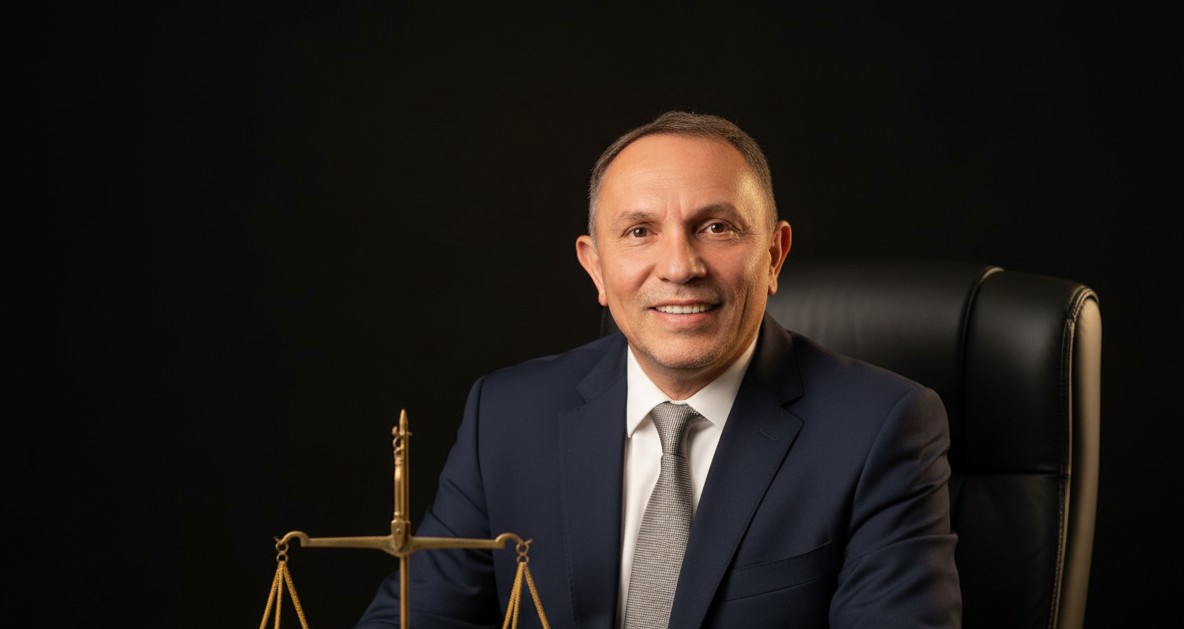
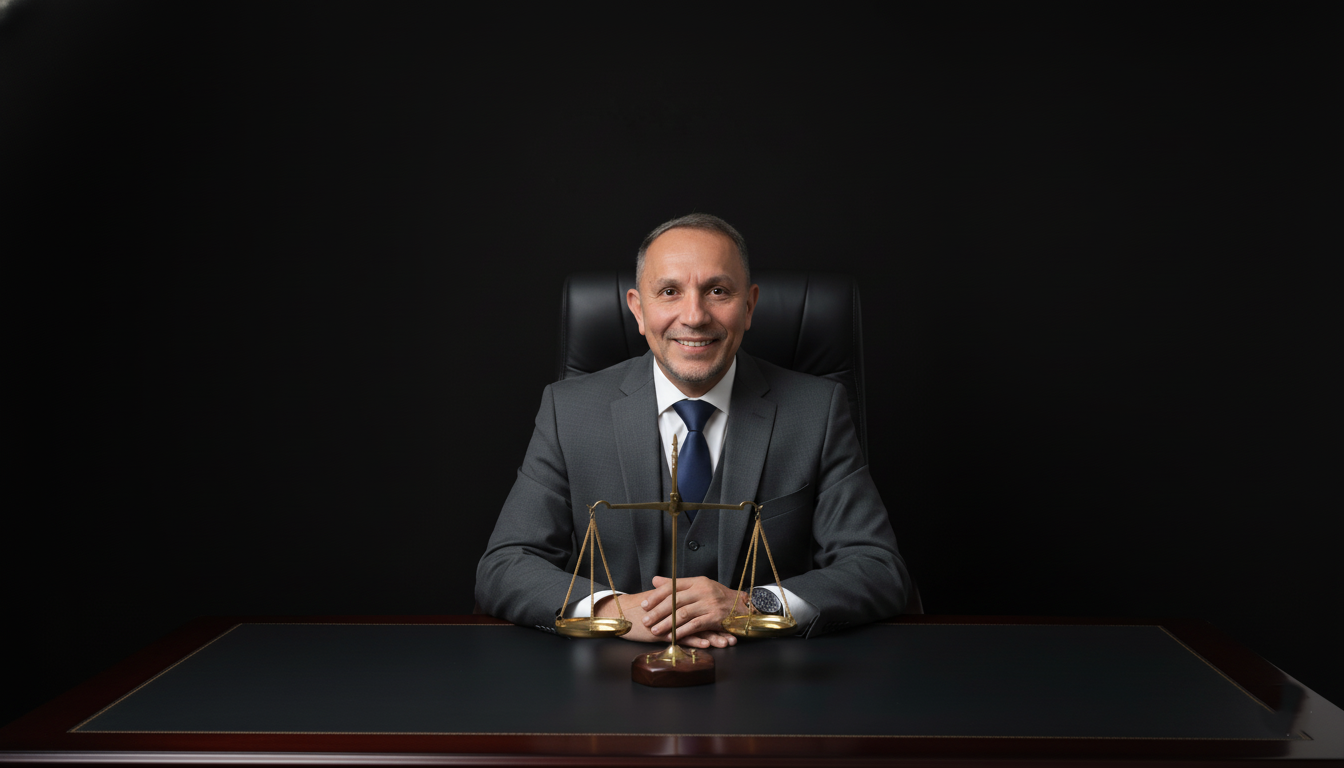
final1

Changed region(s): [[0.0, 0.1812, 1.0, 1.0], [0.0938, 0.876, 0.125, 0.9062], [0.0, 0.0, 0.0312, 0.0302]]

diff --git a/src/app/layout.tsx b/src/app/layout.tsx
@@ -74,8 +74,27 @@ export default function RootLayout({
   children: React.ReactNode;
 }>) {
   return (
-    <html lang="es">
+    <html lang="es" className="dark-mode-transition">
       <head>
+        {/* Favicons generados */}
+        <link rel="apple-touch-icon" sizes="57x57" href="/apple-icon-57x57.png" />
+        <link rel="apple-touch-icon" sizes="60x60" href="/apple-icon-60x60.png" />
+        <link rel="apple-touch-icon" sizes="72x72" href="/apple-icon-72x72.png" />
+        <link rel="apple-touch-icon" sizes="76x76" href="/apple-icon-76x76.png" />
+        <link rel="apple-touch-icon" sizes="114x114" href="/apple-icon-114x114.png" />
+        <link rel="apple-touch-icon" sizes="120x120" href="/apple-icon-120x120.png" />
+        <link rel="apple-touch-icon" sizes="144x144" href="/apple-icon-144x144.png" />
+        <link rel="apple-touch-icon" sizes="152x152" href="/apple-icon-152x152.png" />
+        <link rel="apple-touch-icon" sizes="180x180" href="/apple-icon-180x180.png" />
+        <link rel="icon" type="image/png" sizes="192x192" href="/android-icon-192x192.png" />
+        <link rel="icon" type="image/png" sizes="32x32" href="/favicon-32x32.png" />
+        <link rel="icon" type="image/png" sizes="96x96" href="/favicon-96x96.png" />
+        <link rel="icon" type="image/png" sizes="16x16" href="/favicon-16x16.png" />
+        <link rel="manifest" href="/manifest.json" />
+        <meta name="msapplication-TileColor" content="#ffffff" />
+        <meta name="msapplication-TileImage" content="/ms-icon-144x144.png" />
+        <meta name="theme-color" content="#ffffff" />
+
         <script
           type="application/ld+json"
           dangerouslySetInnerHTML={{
@@ -104,7 +123,7 @@ export default function RootLayout({
         />
       </head>
       <body
-        className={`${geistSans.variable} ${geistMono.variable} antialiased`}
+        className={`${geistSans.variable} ${geistMono.variable} antialiased dark-mode-transition`}
       >
         {children}
         <GoogleAnalytics />
@@ -113,4 +132,3 @@ export default function RootLayout({
     </html>
   );
 }
-

diff --git a/src/components/Header.tsx b/src/components/Header.tsx
@@ -1,10 +1,10 @@
-
 'use client';
 
 import { useState } from 'react';
 import Link from 'next/link';
 import Image from 'next/image';
 import { usePathname } from 'next/navigation';
+import ThemeToggle from './ThemeToggle';
 
 const Header = () => {
   const [isMenuOpen, setIsMenuOpen] = useState(false);
@@ -22,7 +22,7 @@ const Header = () => {
   ];
 
   return (
-    <header className="bg-lexena-azul text-lexena-blanco sticky top-0 z-40 shadow-lg">
+    <header className="bg-lexena-azul text-lexena-blanco sticky top-0 z-40 shadow-lg dark-mode-transition">
       <div className="container mx-auto px-4">
         <div className="flex justify-between items-center py-4">
           {/* Logo */}
@@ -40,7 +40,7 @@ const Header = () => {
           </div>
 
           {/* Desktop Navigation */}
-          <nav className="hidden md:flex space-x-8">
+          <nav className="hidden md:flex items-center space-x-8">
             {navigationItems.map((item) => (
               <Link
                 key={item.name}
@@ -50,17 +50,21 @@ const Header = () => {
                 {item.name}
               </Link>
             ))}
+            <ThemeToggle />
           </nav>
 
           {/* Mobile Menu Button */}
-          <button
-            className="md:hidden p-2"
-            onClick={() => setIsMenuOpen(!isMenuOpen)}
-          >
-            <div className="w-6 h-0.5 bg-lexena-blanco mb-1.5"></div>
-            <div className="w-6 h-0.5 bg-lexena-blanco mb-1.5"></div>
-            <div className="w-6 h-0.5 bg-lexena-blanco"></div>
-          </button>
+          <div className="flex items-center space-x-4 md:hidden">
+            <ThemeToggle />
+            <button
+              className="p-2"
+              onClick={() => setIsMenuOpen(!isMenuOpen)}
+            >
+              <div className="w-6 h-0.5 bg-lexena-blanco mb-1.5"></div>
+              <div className="w-6 h-0.5 bg-lexena-blanco mb-1.5"></div>
+              <div className="w-6 h-0.5 bg-lexena-blanco"></div>
+            </button>
+          </div>
         </div>
 
         {/* Mobile Navigation */}

diff --git a/src/components/ThemeToggle.tsx b/src/components/ThemeToggle.tsx
@@ -1,0 +1,51 @@
+'use client';
+
+import { useState, useEffect } from 'react';
+import { Sun, Moon } from 'lucide-react';
+
+export default function ThemeToggle() {
+  const [isDark, setIsDark] = useState(false);
+
+  useEffect(() => {
+    // Verificar preferencia guardada - por defecto es claro
+    const savedTheme = localStorage.getItem('theme');
+    
+    // Solo activar modo oscuro si explícitamente se guardó como 'dark'
+    if (savedTheme === 'dark') {
+      setIsDark(true);
+      document.documentElement.setAttribute('data-theme', 'dark');
+    } else {
+      // Por defecto: modo claro
+      setIsDark(false);
+      document.documentElement.removeAttribute('data-theme');
+      localStorage.setItem('theme', 'light'); // Guardar explícitamente como claro
+    }
+  }, []);
+
+  const toggleTheme = () => {
+    const newTheme = !isDark;
+    setIsDark(newTheme);
+    
+    if (newTheme) {
+      document.documentElement.setAttribute('data-theme', 'dark');
+      localStorage.setItem('theme', 'dark');
+    } else {
+      document.documentElement.removeAttribute('data-theme');
+      localStorage.setItem('theme', 'light');
+    }
+  };
+
+  return (
+    <button
+      onClick={toggleTheme}
+      className="p-2 rounded-full bg-lexena-azul text-lexena-blanco hover:bg-lexena-naranja transition-colors duration-300"
+      aria-label={isDark ? 'Cambiar a modo claro' : 'Cambiar a modo oscuro'}
+    >
+      {isDark ? (
+        <Sun className="w-5 h-5" />
+      ) : (
+        <Moon className="w-5 h-5" />
+      )}
+    </button>
+  );
+}

diff --git a/src/app/globals.css b/src/app/globals.css
@@ -10,6 +10,17 @@
   --lexena-gris: #D9D9D9;
 }
 
+[data-theme="dark"] {
+  --background: #0a0a0a;
+  --foreground: #ededed;
+  /* Colores LexENA - Modo Oscuro */
+  --lexena-azul: #1e3a8a;
+  --lexena-naranja: #ea580c;
+  --lexena-blanco: #1f2937;
+  --lexena-gris: #4b5563;
+
+}
+
 @theme inline {
   --color-background: var(--background);
   --color-foreground: var(--foreground);
@@ -34,6 +45,7 @@ body {
   background: var(--background);
   color: var(--foreground);
   font-family: Arial, Helvetica, sans-serif;
+  transition: background-color 0.3s ease, color 0.3s ease;
 }
 
 /* Animaciones personalizadas */
@@ -50,4 +62,9 @@ body {
 
 .animate-fadeInUp {
   animation: fadeInUp 0.6s ease-out;
+}
+
+/* Clases para modo oscuro */
+.dark-mode-transition * {
+  transition: background-color 0.3s ease, color 0.3s ease, border-color 0.3s ease;
 }
